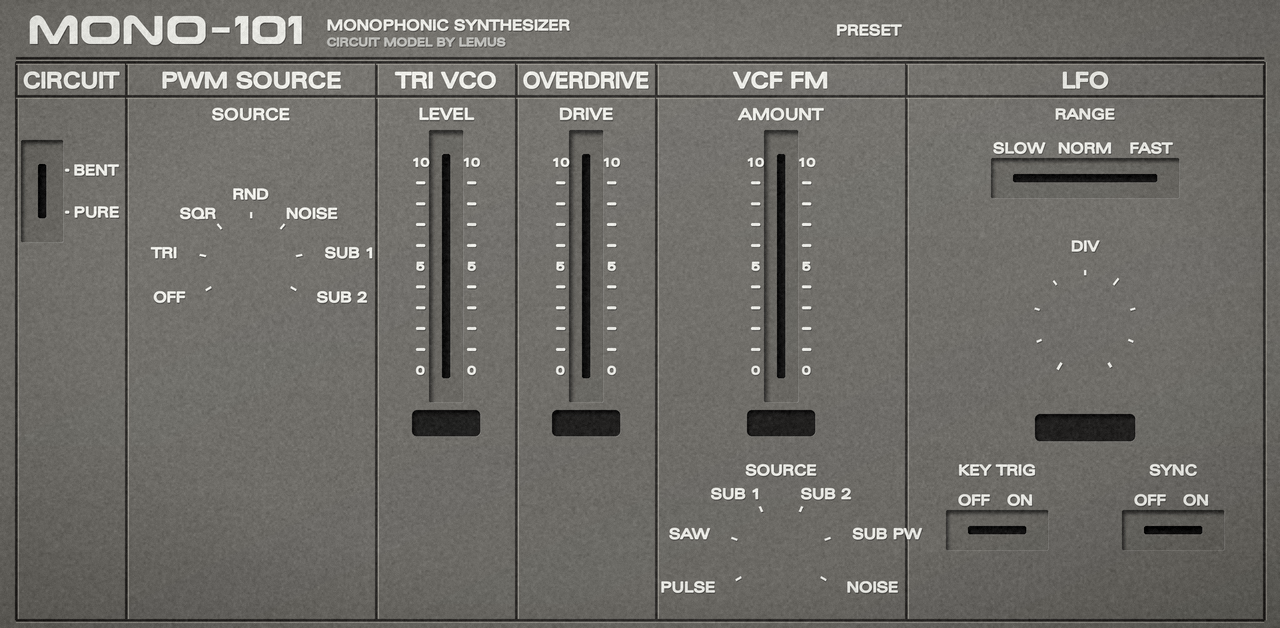
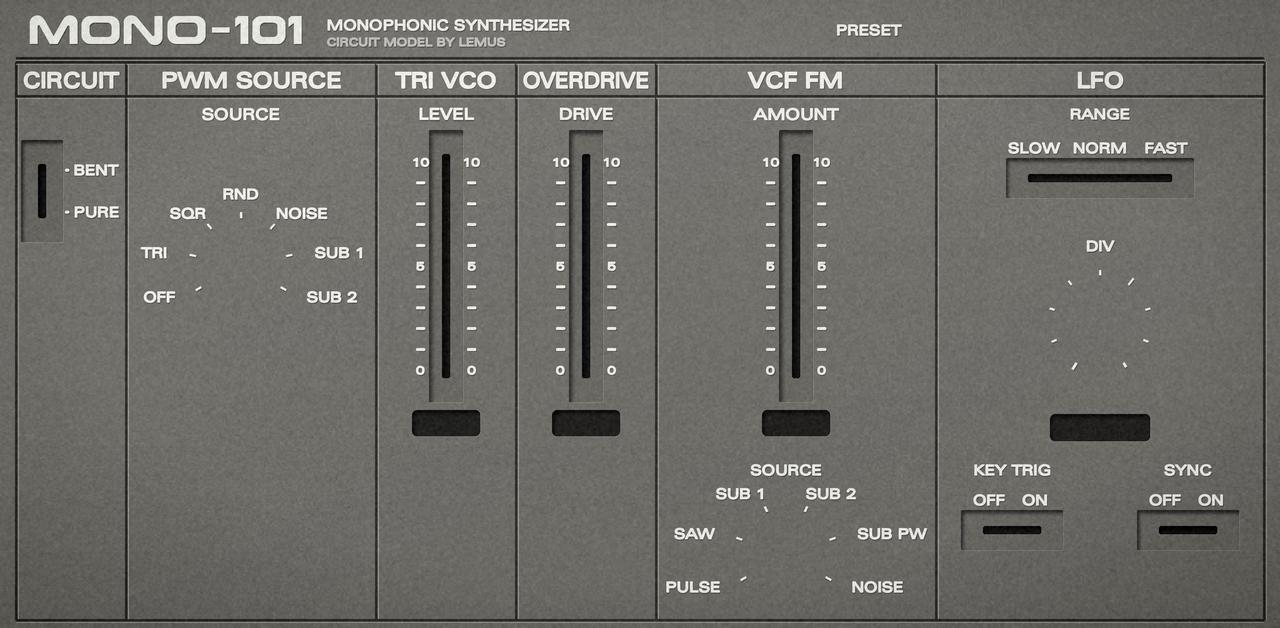
Skin: VCF FM's and PWM SOURCE's legends inside their columns (checked at build)
VCF FM 280 px wide, both knobs set 10 px left (their legends reach further right);
make_tui.py asserts every BENT rotary's printed legends stay 6 px inside the grooves.

Claude-Session: https://claude.ai/code/session_01CpoP2tyjhQubkrCuC5o7vB

diff --git a/tools/make_tui.py b/tools/make_tui.py
@@ -727,6 +727,7 @@ def keyboard(p):
 class Page:
     def __init__(self, name, fn):
         self.name, self.fn, self.kids, self.extent, self.qrows = name, fn, [], {}, []
+        self.ink = {}   # a rotary's printed legends, left and right (px)
         self.p = Painter(W, H, 0, 0, 1.0)
         pc = C["panel"]
         self.p.box([0, 0, W, H], None, grad=(brighter(pc, 0.06), (0, 0), darker(pc, 0.04), (0, H)))
@@ -801,19 +802,30 @@ class Page:
         n = len(opts)
         det = ROT_DETENTS[n]
         r = ROT_R
+        ink = [cx, cx]   # the printed legends' left and right
         for i, (o, a) in enumerate(zip(opts, det)):
             printed(self.p, lambda q, a=a: q.line([polar(cx, cy, r + 6, a), polar(cx, cy, r + 12, a)], 2.4, INK))
             lx, ly = polar(cx, cy, r + 26, a)
+            tw = text_width(o, 10 if n > 4 else 11)
             if glyphs:
                 printed(self.p, lambda q, o=o, lx=lx, ly=ly: wave_glyph(q, o, lx, ly, 20, 11))
+                ext = (lx - 10, lx + 10)
             elif abs(a) > 60:   # the low positions: legends beside the knob, reading away from it
-                legend(self.p, o, lx + (8 if a > 0 else -8), ly, 10, align="l" if a > 0 else "r")
+                x = lx + (8 if a > 0 else -8)
+                legend(self.p, o, x, ly, 10, align="l" if a > 0 else "r")
+                ext = (x, x + tw) if a > 0 else (x - tw, x)
             elif n > 4 and abs(a) < 5:   # straight up: centred
                 legend(self.p, o, lx, ly - 4, 10)
+                ext = (lx - tw / 2, lx + tw / 2)
             elif n > 4:         # the upper ones: reading away from the top
-                legend(self.p, o, lx + (-8 if a > 0 else 8), ly, 10, align="l" if a > 0 else "r")
+                x = lx + (-8 if a > 0 else 8)
+                legend(self.p, o, x, ly, 10, align="l" if a > 0 else "r")
+                ext = (x, x + tw) if a > 0 else (x - tw, x)
             else:
                 legend(self.p, o, lx, ly, 11)
+                ext = (lx - tw / 2, lx + tw / 2)
+            ink = [min(ink[0], ext[0]), max(ink[1], ext[1])]
+        self.ink[key] = ink
         m = r / KNOB_MM
         bx = [int(cx - r - 4), int(cy - r - 4), int(2 * r + 12), int(2 * r + 14)]
         base = Painter(bx[2], bx[3], bx[0] / m, bx[1] / m, m)
@@ -1017,8 +1029,8 @@ def page_two():
     return finish(p)
 
 
-BENT = [("CIRCUIT", 16, 126), ("PWM SOURCE", 126, 376), ("TRI VCO", 376, 516), ("OVERDRIVE", 516, 656), ("VCF FM", 656, 906),
-        ("LFO", 906, 1264)]
+BENT = [("CIRCUIT", 16, 126), ("PWM SOURCE", 126, 376), ("TRI VCO", 376, 516), ("OVERDRIVE", 516, 656), ("VCF FM", 656, 936),
+        ("LFO", 936, 1264)]
 
 
 def page_three():
@@ -1030,7 +1042,7 @@ def page_three():
     sections(p.p, BENT, Y0, Y1, head=HEAD, cap=15)
     mid = lambda name: [(a + b) / 2 for t, a, b in BENT if t == name][0]
     p.vswitch("mods", 42, TOP + 10, cap=10, order=[1, 0])        # BENT at the top
-    c = mid("PWM SOURCE")
+    c = mid("PWM SOURCE") - 10    # its legends reach further right than left
     p.caption(c, TOP - 20, "SOURCE")
     p.rotary("pwm_mod_source", c, TOP + 130)
     c = mid("TRI VCO")
@@ -1039,11 +1051,11 @@ def page_three():
     c = mid("OVERDRIVE")
     p.caption(c, TOP - 20, "DRIVE")
     p.fader("drive", c, TOP, "orange", h=FH, numbers=(True, True))
-    c = mid("VCF FM")              # AMOUNT on top, SOURCE under it
+    c = mid("VCF FM")              # AMOUNT on top, SOURCE under it (its legends reach further right: 10 px left)
     p.caption(c, TOP - 20, "AMOUNT")
     p.fader("fm_amount", c, TOP, "orange", h=FH, numbers=(True, True))
-    p.caption(c, SY, "SOURCE", 10)
-    p.rotary("fm_source", c, ROT_Y)
+    p.caption(c - 10, SY, "SOURCE", 10)
+    p.rotary("fm_source", c - 10, ROT_Y)
     c = mid("LFO")
     p.caption(c, TOP - 20, "RANGE", 10)
     p.hswitch("lfo_range", c, TOP + 44, pitch=66)
@@ -1053,6 +1065,10 @@ def page_three():
     p.hswitch("lfo_trig", c - 88, SW_Y, pitch=46)
     p.caption(c + 88, SY, "SYNC", 10)
     p.hswitch("lfo_sync", c + 88, SW_Y, pitch=46)
+    for key, sec in (("pwm_mod_source", "PWM SOURCE"), ("fm_source", "VCF FM")):   # a rotary's legends stay inside its column
+        a, b = [(x0, x1) for t, x0, x1 in BENT if t == sec][0]
+        e = p.ink[key]
+        assert a + 6 <= e[0] and e[1] <= b - 6, "%s: legends cross the column (%d..%d in %d..%d)" % (key, e[0], e[1], a, b)
     p.qrows = [["mods", "pwm_mod_source", "tri_level", "drive"], ["fm_amount", "fm_source"],
                ["lfo_div", "lfo_range", "lfo_sync", "lfo_trig"]]
     return finish(p)
